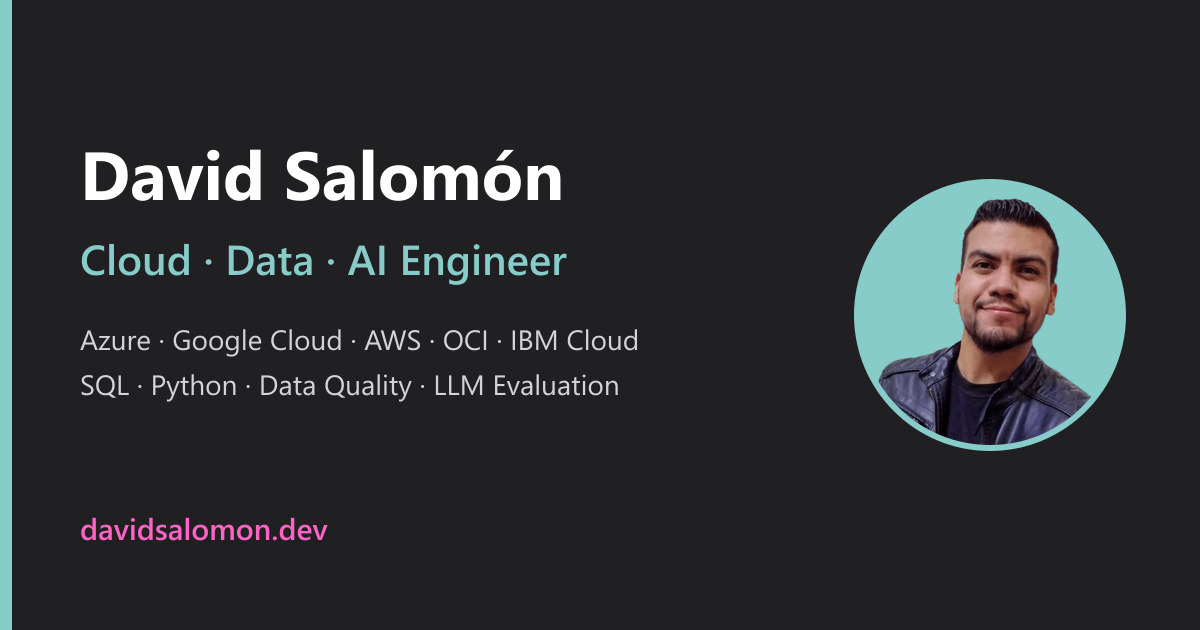
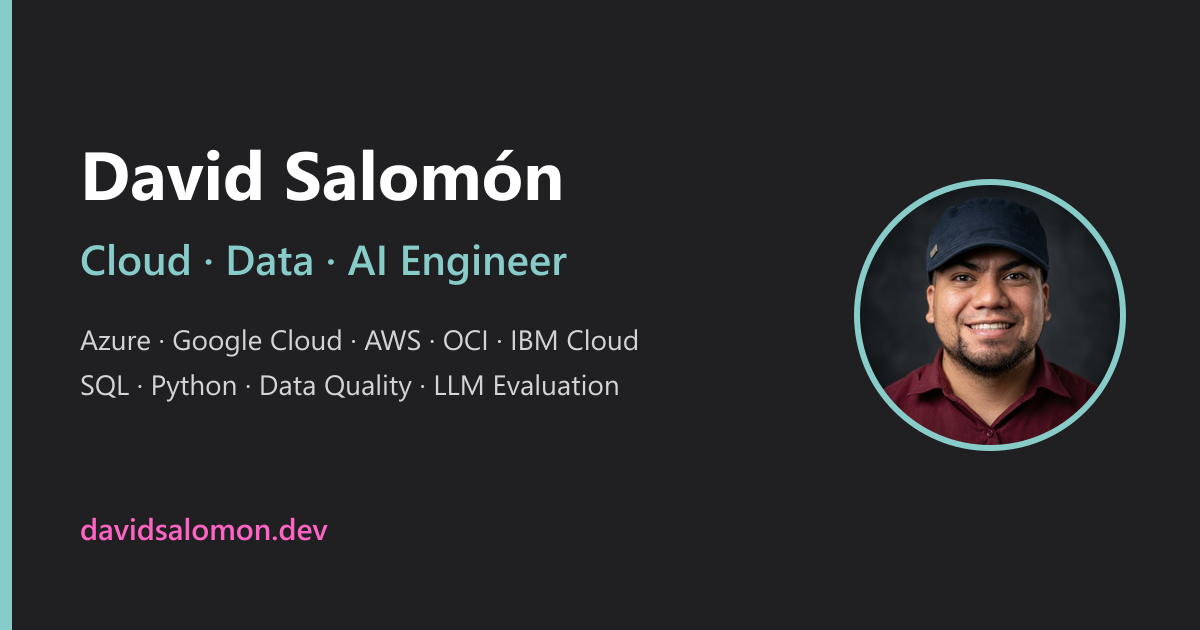
feat: use updated profile photo
- Profile photo, OG share image and JSON-LD image now use david.jpg
- Remove the old david.png

Changed region(s): [[0.7092, 0.2714, 0.9558, 0.7238]]

diff --git a/src/libs/structured-data.js b/src/libs/structured-data.js
@@ -11,7 +11,7 @@ const person = (t) => ({
   name: "David Salomón Martínez Valladares",
   alternateName: "David Salomón",
   url: `${SITE_URL}/`,
-  image: `${SITE_URL}/images/david.png`,
+  image: `${SITE_URL}/images/david.jpg`,
   email: `mailto:${EMAIL}`,
   jobTitle: "Cloud Engineer",
   description: t.meta.description,
